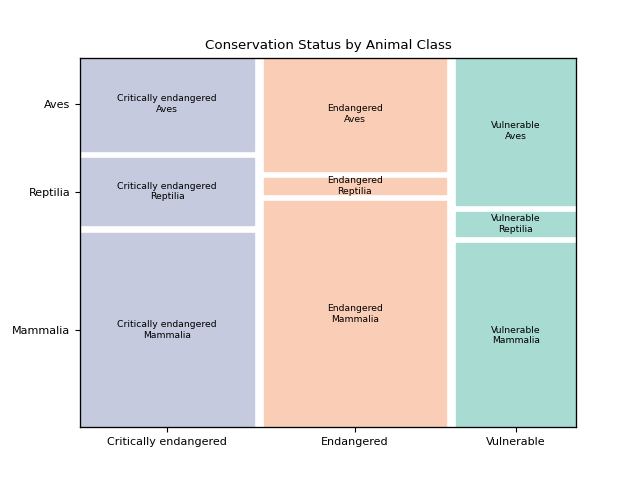
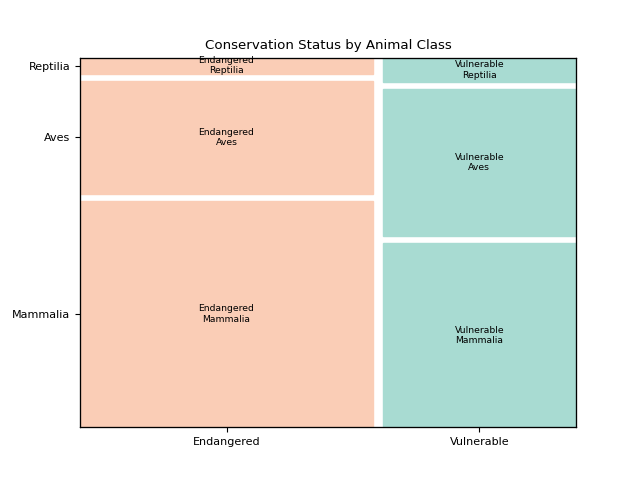
Syntax fix

diff --git a/making-a-mosaic-plot/main.py b/making-a-mosaic-plot/main.py
@@ -8,7 +8,9 @@ with open("data.json", "r") as text:
     data = json.load(text)
 
 for item in data:
-  item["Category"] = re.compile("[\.(]").split(item["Category"])[0]
+    # Use a more flexible regex to split by space or dot (or other characters if needed)
+    # The r in r"[\s.]" creates a raw string, which is good practice for regex
+    item["Category"] = re.compile(r"[\s.]").split(item["Category"])[0]
 
 # mosaic plot will show data from these 3 classes
 classes = ["Mammalia", "Aves", "Reptilia"]
@@ -20,13 +22,13 @@ mosaic_data = []
 # will only extract data from those classes and conservation statuses
 # search for values of each item with a specific class key and category key
 for item in data:
-   if item["Animal Class"] in classes and item["Category"] in statuses:
-    mosaic_data.append(item)
+    if item["Animal Class"] in classes and item["Category"] in statuses:
+        mosaic_data.append(item)
 
 properties = {
-   "Endangered": {"color": "#facdb6"},
-   "Critically endangered": {"color": "#c5cade"},
-   "Vulnerable": {"color": "#a8dbd2"}
+    "Endangered": {"color": "#facdb6"},
+    "Critically endangered": {"color": "#c5cade"},
+    "Vulnerable": {"color": "#a8dbd2"}
 }
 
 plt.rc("font", size=8)
@@ -34,6 +36,7 @@ plt.rc("font", size=8)
 # create a dataframe
 mosaic_dataframe = pd.DataFrame(mosaic_data)
 
+# Create the mosaic plot
 fig = mosaic(mosaic_dataframe, ["Category", "Animal Class"], title="Conservation Status by Animal Class", gap=[0.02, 0.02], axes_label=True, properties=lambda x: properties[x[0]])
 
 plt.savefig("mosaic.png")
